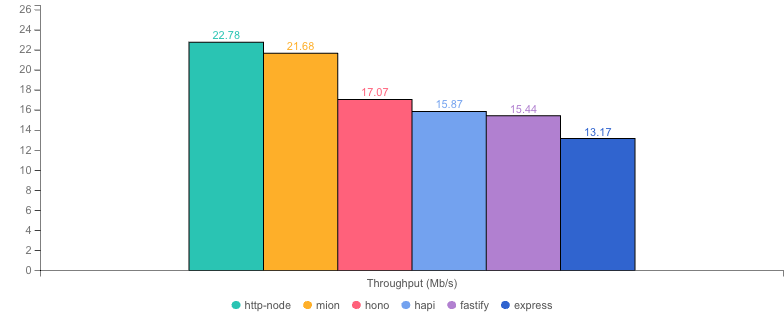
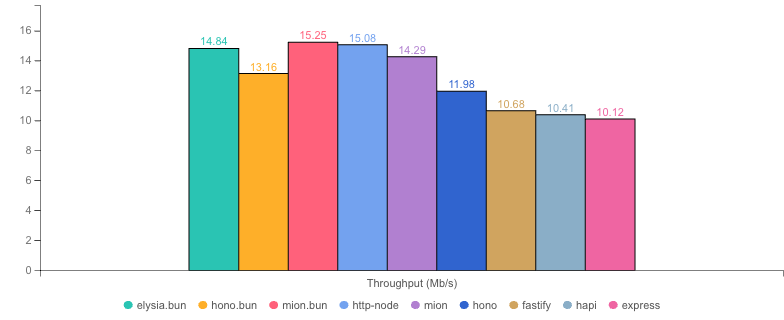
update latest benchmarks including bun hello world

diff --git a/website/content/7.benchmarks/1.hello-world.md b/website/content/7.benchmarks/1.hello-world.md
@@ -18,20 +18,14 @@ This is a simple hello world scenario, is a good indicator of the router perform
 
 <code-import path="packages/examples/src/introduction/myApi.routes.ts" lang="ts" />
 
-::note
-**Bun servers are excluded!**   
-Bun servers (mion.bun, hono.bun, elysia.bun) are **excluded from the hello world benchmarks** because the benchmarking tool used (autocannon) is not fast enough to accurately measure Bun's performance.
-Note that Hono and Elisya have slightly better performance than mion, in bun for this particular case but we can't run test reliable using autocannon.  
-::
-
 :spacer
 
 ## Benchmarks
 
 * __Machine:__ darwin arm64 | 12 vCPUs | 16.0GB Mem
 * __Node:__ `v24.13.0`
-* __Run:__ Sun Apr 12 2026 17:58:59 GMT+0100 (Irish Standard Time)
-* __Method:__ `autocannon -c 100 -d 20 -p 10 localhost:3000` (two rounds; one to warm-up, one to measure)
+* __Run:__ Wed Apr 15 2026 22:04:55 GMT+0100 (Irish Standard Time)
+* __Method:__ `autocannon -c 100 -d 20.099952 -p 1 localhost:3000` (two rounds; one to warm-up, one to measure)
 
 #### Req (R/s)
 
@@ -55,14 +49,17 @@ Note that Hono and Elisya have slightly better performance than mion, in bun for
 
 ## Results Table
 
-|           | Version   | Router | Req (R/s)    | Latency (ms) | Output (Mb/s) | Max Memory (Mb) | Max Cpu (%) | Validation | Description                                               |
-| :--       | --:       | --:    | :-:          | --:          | --:           | --:             | --:         | :-:        | :--                                                       |
-| http-node | 16.18.0   | ✗      | 127740.8     | 7.42         | 22.78         | 146             | 108         | ✓          | bare node http server with Zod validation                 |
-| **mion**  | **0.6.2** | **✓**  | **111401.6** | **8.40**     | **21.68**     | **225**         | **108**     | **✓**      | **Automatic validation and serialization out of the box** |
-| hono      | 3.12.6    | ✓      | 104038.4     | 9.10         | 17.07         | 230             | 108         | ✓          | hono node server with Zod validation                      |
-| hapi      | 21.4.4    | ✓      | 88982.4      | 10.77        | 15.87         | 256             | 112         | ✓          | Hapi with Zod validation                                  |
-| fastify   | 5.7.4     | ✓      | 86137.6      | 11.06        | 15.44         | 155             | 108         | ✓          | Fastify with native JSON Schema validation                |
-| express   | 5.2.1     | ✓      | 73875.2      | 13.02        | 13.17         | 235             | 108         | ✓          | Express with Zod validation                               |
+|              | Version   | Router | Req (R/s)    | Latency (ms) | Output (Mb/s) | Max Memory (Mb) | Max Cpu (%) | Validation | Description                                                |
+| :--          | --:       | --:    | :-:          | --:          | --:           | --:             | --:         | :-:        | :--                                                        |
+| elysia.bun   | 1.0.0     | ✓      | 124499.5     | 0.77         | 14.84         | 55              | 109         | ✓          | Elysia framework with TypeBox validation                   |
+| hono.bun     | 3.12.6    | ✓      | 110404.7     | 0.87         | 13.16         | 67              | 109         | ✓          | hono bun server with Zod validation                        |
+| **mion.bun** | **0.6.2** | **✓**  | **101825.0** | **0.94**     | **15.25**     | **60**          | **109**     | **✓**      | **mion using bun, automatic validation and serialization** |
+| http-node    | 16.18.0   | ✗      | 84535.9      | 1.14         | 15.08         | 133             | 114         | ✓          | bare node http server with Zod validation                  |
+| **mion**     | **0.6.2** | **✓**  | **73443.0**  | **1.32**     | **14.29**     | **139**         | **114**     | **✓**      | **Automatic validation and serialization out of the box**  |
+| hono         | 3.12.6    | ✓      | 73011.9      | 1.33         | 11.98         | 145             | 114         | ✓          | hono node server with Zod validation                       |
+| fastify      | 5.7.4     | ✓      | 59551.2      | 1.63         | 10.68         | 144             | 104         | ✓          | Fastify with native JSON Schema validation                 |
+| hapi         | 21.4.4    | ✓      | 58388.5      | 1.66         | 10.41         | 219             | 108         | ✓          | Hapi with Zod validation                                   |
+| express      | 5.2.1     | ✓      | 56729.9      | 1.71         | 10.12         | 151             | 106         | ✓          | Express with Zod validation                                |
 
 :button-link[Benchmarks Repo]{icon="grommet-icons:github" href="https://github.com/MionKit/Benchmarks" target="_blank"}
 

diff --git a/website/content/7.benchmarks/3.heavy-validation.md b/website/content/7.benchmarks/3.heavy-validation.md
@@ -87,8 +87,8 @@ We can observe the more validation and serialization is required, the more perfo
 
 * __Machine:__ darwin arm64 | 12 vCPUs | 16.0GB Mem
 * __Node:__ `v24.13.0`
-* __Run:__ Sun Apr 12 2026 17:55:42 GMT+0100 (Irish Standard Time)
-* __Method:__ `autocannon -c 100 -d 20.01 -p 10 localhost:3000` (two rounds; one to warm-up, one to measure)
+* __Run:__ Wed Apr 15 2026 22:00:02 GMT+0100 (Irish Standard Time)
+* __Method:__ `autocannon -c 100 -d 20.102586 -p 1 localhost:3000` (two rounds; one to warm-up, one to measure)
 
 #### Req (R/s) 
 
@@ -114,15 +114,15 @@ We can observe the more validation and serialization is required, the more perfo
 
 |              | Version   | Router | Req (R/s)   | Latency (ms) | Output (Mb/s) | Max Memory (Mb) | Max Cpu (%) | Validation | Description                                                |
 | :--          | --:       | --:    | :-:         | --:          | --:           | --:             | --:         | :-:        | :--                                                        |
-| **mion.bun** | **0.6.2** | **✓**  | **54715.2** | **17.77**    | **56.40**     | **82**          | **102**     | **✓**      | **mion using bun, automatic validation and serialization** |
-| hono.bun     | 3.12.6    | ✓      | 53166.4     | 18.30        | 52.42         | 104             | 102         | ✓          | hono bun server with Zod validation                        |
-| elysia.bun   | 1.0.0     | ✓      | 43724.8     | 22.35        | 43.11         | 116             | 103         | ✓          | Elysia framework with TypeBox validation                   |
-| **mion**     | **0.6.2** | **✓**  | **42512.0** | **23.01**    | **45.73**     | **172**         | **111**     | **✓**      | **Automatic validation and serialization out of the box**  |
-| http-node    | 16.18.0   | ✗      | 41873.6     | 23.39        | 43.76         | 164             | 110         | ✓          | bare node http server with Zod validation                  |
-| fastify      | 5.7.4     | ✓      | 31129.6     | 31.59        | 32.56         | 352             | 119         | ✓          | Fastify with native JSON Schema validation                 |
-| express      | 5.2.1     | ✓      | 30311.2     | 32.45        | 31.68         | 179             | 116         | ✓          | Express with Zod validation                                |
-| hapi         | 21.4.4    | ✓      | 28316.8     | 34.79        | 29.59         | 287             | 112         | ✓          | Hapi with Zod validation                                   |
-| hono         | 3.12.6    | ✓      | 24803.2     | 39.78        | 25.57         | 755             | 127         | ✓          | hono node server with Zod validation                       |
+| **mion.bun** | **0.6.2** | **✓**  | **49225.9** | **1.95**     | **50.74**     | **70**          | **101**     | **✓**      | **mion using bun, automatic validation and serialization** |
+| hono.bun     | 3.12.6    | ✓      | 48727.1     | 1.96         | 48.04         | 85              | 101         | ✓          | hono bun server with Zod validation                        |
+| elysia.bun   | 1.0.0     | ✓      | 40668.8     | 2.35         | 40.10         | 100             | 101         | ✓          | Elysia framework with TypeBox validation                   |
+| **mion**     | **0.6.2** | **✓**  | **37747.5** | **2.60**     | **40.60**     | **152**         | **116**     | **✓**      | **Automatic validation and serialization out of the box**  |
+| http-node    | 16.18.0   | ✗      | 36701.8     | 2.68         | 38.36         | 144             | 106         | ✓          | bare node http server with Zod validation                  |
+| fastify      | 5.7.4     | ✓      | 32177.0     | 3.05         | 33.66         | 269             | 125         | ✓          | Fastify with native JSON Schema validation                 |
+| express      | 5.2.1     | ✓      | 28152.4     | 3.53         | 29.42         | 162             | 109         | ✓          | Express with Zod validation                                |
+| hapi         | 21.4.4    | ✓      | 25700.5     | 3.86         | 26.86         | 226             | 112         | ✓          | Hapi with Zod validation                                   |
+| hono         | 3.12.6    | ✓      | 23521.2     | 4.73         | 24.25         | 614             | 120         | ✓          | hono node server with Zod validation                       |
 
 
 :button-link[Benchmarks Repo]{icon="grommet-icons:github" href="https://github.com/MionKit/Benchmarks" target="_blank"}

diff --git a/website/content/7.benchmarks/2.light-validation.md b/website/content/7.benchmarks/2.light-validation.md
@@ -64,8 +64,8 @@ We can observe how in this benchmark the requests take more time compared with t
 
 * __Machine:__ darwin arm64 | 12 vCPUs | 16.0GB Mem
 * __Node:__ `v24.13.0`
-* __Run:__ Sun Apr 12 2026 18:03:54 GMT+0100 (Irish Standard Time)
-* __Method:__ `autocannon -c 100 -d 20.1 -p 10 localhost:3000` (two rounds; one to warm-up, one to measure)
+* __Run:__ Wed Apr 15 2026 22:09:47 GMT+0100 (Irish Standard Time)
+* __Method:__ `autocannon -c 100 -d 20.10033 -p 1 localhost:3000` (two rounds; one to warm-up, one to measure)
 
 #### Req (R/s) 
 
@@ -91,15 +91,15 @@ We can observe how in this benchmark the requests take more time compared with t
 
 |              | Version   | Router | Req (R/s)   | Latency (ms) | Output (Mb/s) | Max Memory (Mb) | Max Cpu (%) | Validation | Description                                                |
 | :--          | --:       | --:    | :-:         | --:          | --:           | --:             | --:         | :-:        | :--                                                        |
-| http-node    | 16.18.0   | ✗      | 72224.0     | 13.41        | 18.11         | 147             | 109         | ✓          | bare node http server with Zod validation                  |
-| **mion.bun** | **0.6.2** | **✓**  | **71465.6** | **13.58**    | **17.37**     | **66**          | **102**     | **✓**      | **mion using bun, automatic validation and serialization** |
-| hono.bun     | 3.12.6    | ✓      | 69689.6     | 13.93        | 13.35         | 70              | 94          | ✓          | hono bun server with Zod validation                        |
-| elysia.bun   | 1.0.0     | ✓      | 68892.8     | 14.12        | 13.20         | 90              | 98          | ✓          | Elysia framework with TypeBox validation                   |
-| **mion**     | **0.6.2** | **✓**  | **65636.8** | **14.73**    | **18.90**     | **157**         | **111**     | **✓**      | **Automatic validation and serialization out of the box**  |
-| fastify      | 5.7.4     | ✓      | 45646.4     | 21.40        | 11.49         | 312             | 133         | ✓          | Fastify with native JSON Schema validation                 |
-| express      | 5.2.1     | ✓      | 45233.6     | 21.61        | 11.34         | 240             | 117         | ✓          | Express with Zod validation                                |
-| hapi         | 21.4.4    | ✓      | 41016.0     | 23.87        | 10.28         | 262             | 113         | ✓          | Hapi with Zod validation                                   |
-| hono         | 3.12.6    | ✓      | 33110.8     | 29.64        | 7.83          | 988             | 143         | ✓          | hono node server with Zod validation                       |
+| elysia.bun   | 1.0.0     | ✓      | 82502.3     | 1.16         | 15.81         | 89              | 108         | ✓          | Elysia framework with TypeBox validation                   |
+| hono.bun     | 3.12.6    | ✓      | 79744.7     | 1.20         | 15.28         | 71              | 109         | ✓          | hono bun server with Zod validation                        |
+| **mion.bun** | **0.6.2** | **✓**  | **73772.7** | **1.30**     | **17.93**     | **64**          | **108**     | **✓**      | **mion using bun, automatic validation and serialization** |
+| http-node    | 16.18.0   | ✗      | 59640.9     | 1.63         | 14.95         | 136             | 115         | ✓          | bare node http server with Zod validation                  |
+| **mion**     | **0.6.2** | **✓**  | **55432.8** | **1.76**     | **15.96**     | **142**         | **101**     | **✓**      | **Automatic validation and serialization out of the box**  |
+| fastify      | 5.7.4     | ✓      | 41002.8     | 2.41         | 10.32         | 254             | 125         | ✓          | Fastify with native JSON Schema validation                 |
+| express      | 5.2.1     | ✓      | 40209.3     | 2.43         | 10.08         | 173             | 108         | ✓          | Express with Zod validation                                |
+| hapi         | 21.4.4    | ✓      | 35953.5     | 2.75         | 9.01          | 223             | 110         | ✓          | Hapi with Zod validation                                   |
+| hono         | 3.12.6    | ✓      | 30677.7     | 4.23         | 7.25          | 1089            | 148         | ✓          | hono node server with Zod validation                       |
 
 
 :button-link[Benchmarks Repo]{icon="grommet-icons:github" href="https://github.com/MionKit/Benchmarks" target="_blank"}
